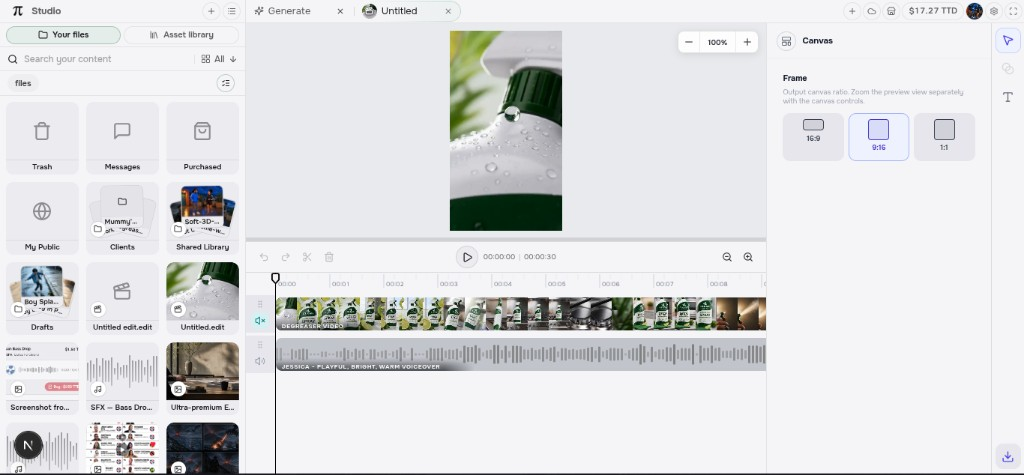
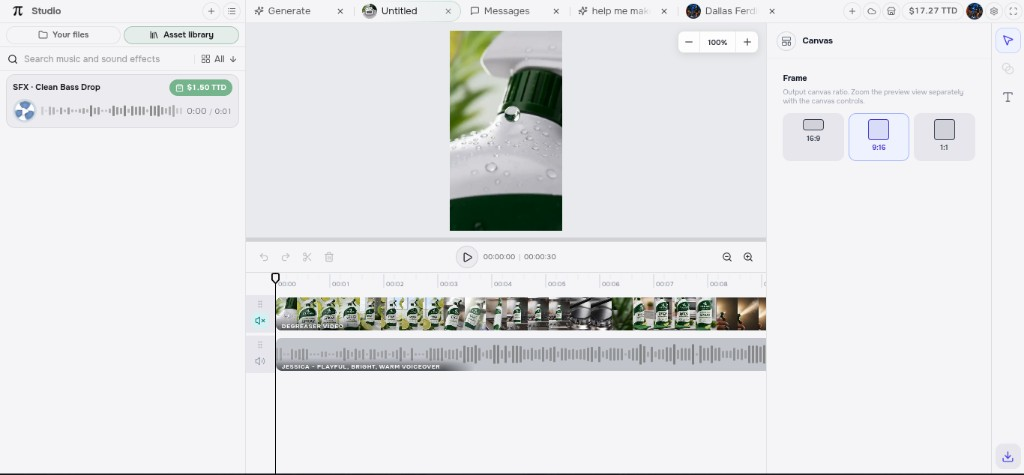
Expand Studio landing story with Messages, Profiles, and booking.
Replace preview-badged mocks with cleaner product shots and walk Generate → Edit → Hire → Book → Messages → Profiles → Earn.

diff --git a/src/studio/components/StudioLandingPage.tsx b/src/studio/components/StudioLandingPage.tsx
@@ -5,12 +5,18 @@ import { useEffect, useRef, useState, type ReactNode } from "react";
 import { BrandMark } from "@/components/brand-mark";
 import "./studio-landing.css";
 
+/**
+ * Landing story (business creative ecosystem):
+ * Overview → Generate → Edit → Hire → Book → Messages → Profiles → Earn → Start
+ * Each full-height section = one idea + one real product laptop mock.
+ */
 const NAV_LINKS = [
   { id: "overview", label: "Overview" },
   { id: "generate", label: "Generate" },
   { id: "edit", label: "Edit" },
   { id: "hire", label: "Hire" },
-  { id: "review", label: "Review" },
+  { id: "messages", label: "Messages" },
+  { id: "profiles", label: "Profiles" },
 ] as const;
 
 function LaptopMock({
@@ -178,6 +184,22 @@ export function StudioLandingPage({ onSignIn }: { onSignIn: () => void }) {
                 {link.label}
               </button>
             ))}
+            <button
+              type="button"
+              role="menuitem"
+              className="studio-landing-mobile-link"
+              onClick={() => scrollToId("book")}
+            >
+              Book
+            </button>
+            <button
+              type="button"
+              role="menuitem"
+              className="studio-landing-mobile-link"
+              onClick={() => scrollToId("earn")}
+            >
+              Earn
+            </button>
           </div>
         ) : null}
       </header>
@@ -189,13 +211,13 @@ export function StudioLandingPage({ onSignIn }: { onSignIn: () => void }) {
           aria-labelledby="overview-title"
         >
           <div className="studio-landing-section-inner">
-            <p className="studio-landing-kicker">For businesses that need ads</p>
+            <p className="studio-landing-kicker">Business creative ecosystem</p>
             <h1 id="overview-title" className="studio-landing-hero-title">
               Yatishara Studio
             </h1>
             <p className="studio-landing-section-lead">
-              One ecosystem to generate creatives, edit them, hire partners, and
-              review the work — without hopping between tools.
+              Generate ads, edit them, hire creators, message the job, and pay
+              safely — one workspace for businesses that need creatives done.
             </p>
             <div className="studio-landing-cta-row">
               <button type="button" className="studio-landing-cta" onClick={onSignIn}>
@@ -207,12 +229,12 @@ export function StudioLandingPage({ onSignIn }: { onSignIn: () => void }) {
                 className="studio-landing-cta-ghost"
                 onClick={() => scrollToId("generate")}
               >
-                See how it works
+                Walk the flow
               </button>
             </div>
             <LaptopMock
-              src="/landing/mock-generate.jpg"
-              alt="Studio generate workspace"
+              src="/landing/mock-flyer.jpg"
+              alt="Studio generating a product flyer from a brief"
               priority
             />
           </div>
@@ -222,12 +244,12 @@ export function StudioLandingPage({ onSignIn }: { onSignIn: () => void }) {
           id="generate"
           tone="plate"
           kicker="Generate"
-          title="Make the ad."
-          lead="Images, video, audio, and scripts — brief once, generate in Studio."
+          title="Brief it. Get the ad."
+          lead="Talk to Studio like a creative director — image, video, audio, or script."
         >
           <LaptopMock
-            src="/landing/mock-assist.jpg"
-            alt="Studio assistant generating ad creatives"
+            src="/landing/mock-generate-chat.jpg"
+            alt="Studio assistant chat turning a brief into a video ad"
           />
         </LandingSection>
 
@@ -235,12 +257,12 @@ export function StudioLandingPage({ onSignIn }: { onSignIn: () => void }) {
           id="edit"
           tone="page"
           kicker="Edit"
-          title="Cut. Caption. Ship."
-          lead="Open the timeline, refine the take, export without leaving your files."
+          title="Finish in the timeline."
+          lead="Cut, caption, drop stock music or SFX, and export without leaving your files."
         >
           <LaptopMock
             src="/landing/mock-edit.jpg"
-            alt="Studio video editor timeline"
+            alt="Studio video editor with asset library sound effects"
           />
         </LandingSection>
 
@@ -248,25 +270,64 @@ export function StudioLandingPage({ onSignIn }: { onSignIn: () => void }) {
           id="hire"
           tone="plate"
           kicker="Hire"
-          title="Book the creator."
-          lead="Creative Network keeps payment safe until you accept delivery."
+          title="Need a partner? Book one."
+          lead="Creative Network lists verified creators — ads, delivery windows, clear packages."
         >
           <LaptopMock
             src="/landing/mock-network.jpg"
-            alt="Creative Network marketplace in Studio"
+            alt="Creative Network marketplace for booking creators"
           />
         </LandingSection>
 
         <LandingSection
-          id="review"
+          id="book"
           tone="page"
-          kicker="Review"
-          title="Approve together."
-          lead="Share cuts on the feed, collect comments, and lock the next revision."
+          kicker="Book"
+          title="Pay when you accept."
+          lead="Pick a package, top up, and keep payment protected until delivery looks right."
         >
           <LaptopMock
-            src="/landing/mock-feed.jpg"
-            alt="Studio feed for creative review"
+            src="/landing/mock-book.jpg"
+            alt="Booking a Creative Network package with wallet balance"
+          />
+        </LandingSection>
+
+        <LandingSection
+          id="messages"
+          tone="plate"
+          kicker="Messages"
+          title="Run the job in chat."
+          lead="Share storyboards, voice notes, and revisions with paid creators in one thread."
+        >
+          <LaptopMock
+            src="/landing/mock-messages.jpg"
+            alt="Studio messages with a paid creator and shared storyboard"
+          />
+        </LandingSection>
+
+        <LandingSection
+          id="profiles"
+          tone="page"
+          kicker="Profiles"
+          title="See the work. Hire Us."
+          lead="Open a creator profile, skim the portfolio, then hire or message from there."
+        >
+          <LaptopMock
+            src="/landing/mock-profile.jpg"
+            alt="Creator profile with Hire Us and portfolio grid"
+          />
+        </LandingSection>
+
+        <LandingSection
+          id="earn"
+          tone="plate"
+          kicker="Earn"
+          title="Creators sell here too."
+          lead="List SFX, offers, and assets — track sales beside the same Studio files."
+        >
+          <LaptopMock
+            src="/landing/mock-assets-sell.jpg"
+            alt="My assets dashboard with listed sound effects and earnings"
           />
         </LandingSection>
 
@@ -276,13 +337,13 @@ export function StudioLandingPage({ onSignIn }: { onSignIn: () => void }) {
           aria-labelledby="start-title"
         >
           <div className="studio-landing-section-inner">
-            <p className="studio-landing-kicker">One workspace</p>
+            <p className="studio-landing-kicker">One ecosystem</p>
             <h2 id="start-title" className="studio-landing-section-title">
-              Generate. Edit. Hire. Review.
+              From brief to booked delivery.
             </h2>
             <p className="studio-landing-section-lead">
-              Studio is the operating layer for businesses that need ads done —
-              not another disconnected tool.
+              Studio is where businesses make ads, hire help, and keep the whole
+              job — files, chat, and payments — in one place.
             </p>
             <div className="studio-landing-cta-row">
               <button type="button" className="studio-landing-cta" onClick={onSignIn}>
@@ -295,7 +356,7 @@ export function StudioLandingPage({ onSignIn }: { onSignIn: () => void }) {
 
         <footer className="studio-landing-foot">
           <span>Yatishara Studio</span>
-          <span>Business creative ecosystem</span>
+          <span>Generate · Edit · Hire · Message</span>
         </footer>
       </main>
     </div>

diff --git a/src/studio/components/studio-landing.css b/src/studio/components/studio-landing.css
@@ -79,12 +79,12 @@
   align-items: center;
   justify-content: center;
   height: 24px;
-  padding: 0 10px;
+  padding: 0 8px;
   border: none;
   border-radius: var(--cursor-radius-sm, 6px);
   background: transparent;
   color: var(--studio-landing-mute);
-  font-size: 12px;
+  font-size: 11px;
   font-weight: 600;
   letter-spacing: 0.01em;
   cursor: pointer;
@@ -424,7 +424,7 @@
   font-weight: 500;
 }
 
-@media (min-width: 860px) {
+@media (min-width: 980px) {
   .studio-landing-nav {
     display: flex;
   }
